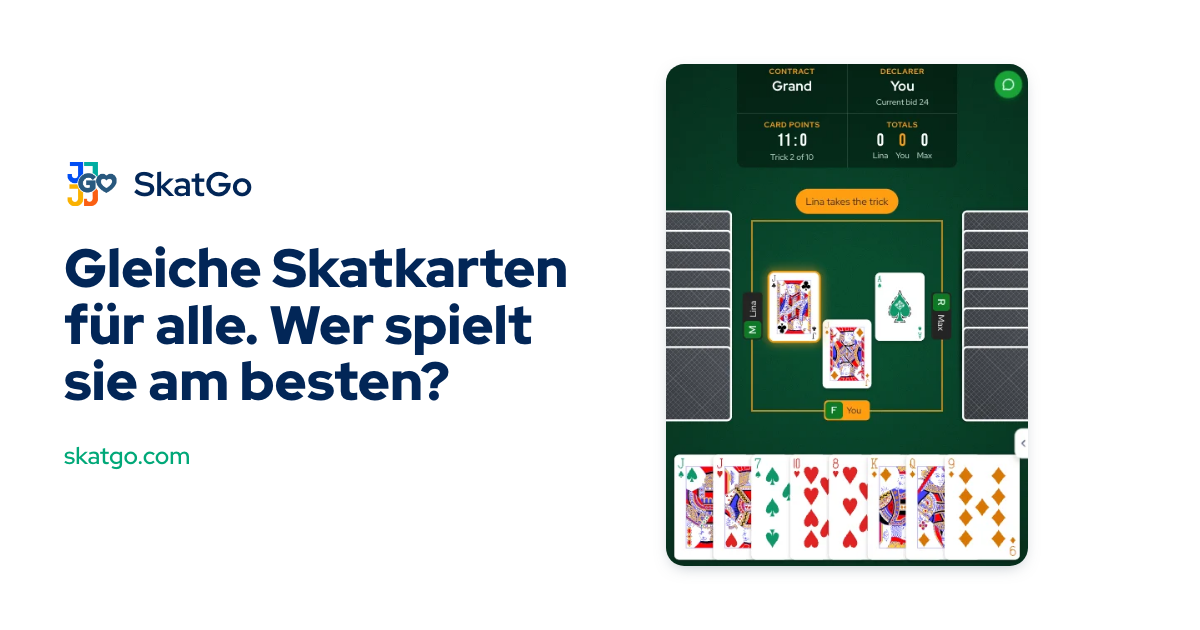
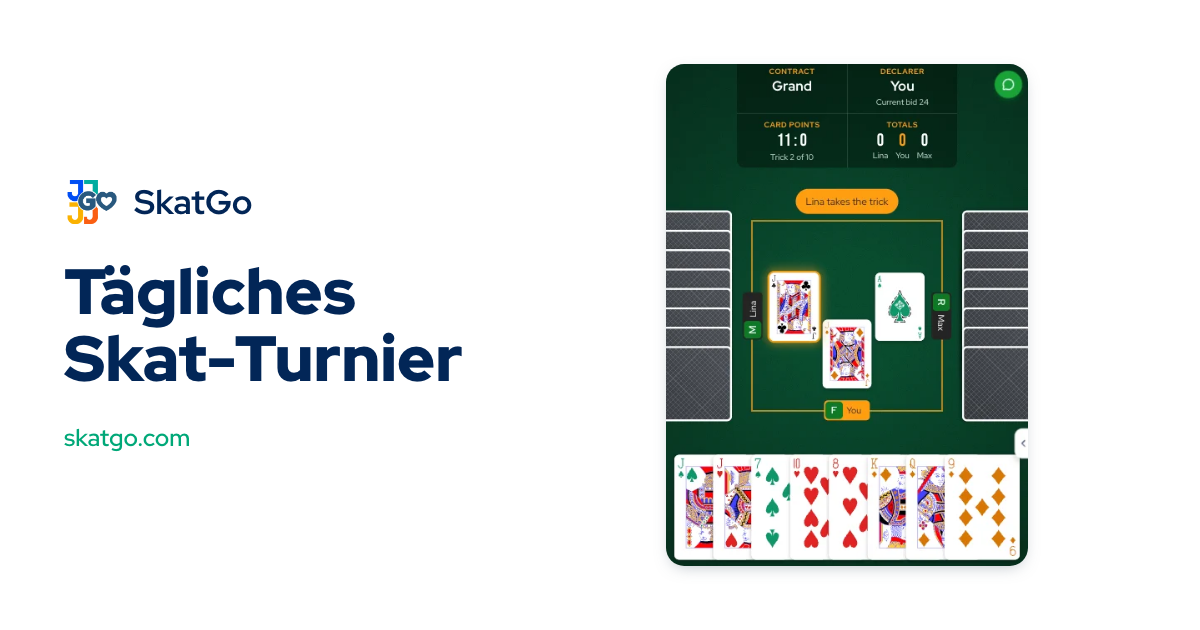
Slogan 改为这个，上面是slogan，下面是说明文字：Daily Skat tournament / Same deals for everyone. Highest score takes the board.
德文：Tägliches Skat-Turnier / Dieselben Spiele für alle. Die höchste Punktzahl führt die Rangliste an.（agent 译，待人确认）；分享图随之重新生成

Changed region(s): [[0.0308, 0.3921, 0.4933, 0.6333], [0.0308, 0.2413, 0.2158, 0.3619], [0.0308, 0.6635, 0.1542, 0.754]]

diff --git a/app/src/components/skat/entry-page.tsx b/app/src/components/skat/entry-page.tsx
@@ -3,7 +3,7 @@ import * as stylex from '@stylexjs/stylex'
 import { type ReactNode, useEffect, useState } from 'react'
 
 import { track } from '~/lib/analytics'
-import { DAILY_DEALS, DAILY_EST_MINUTES } from '~/lib/daily'
+import { DAILY_EST_MINUTES } from '~/lib/daily'
 import { faq } from '~/lib/faq'
 import type { Card } from '~/lib/skat/cards'
 import { lessons } from '~/lib/skat/lessons/content'
@@ -43,7 +43,7 @@ export function EntryPage() {
       <section data-testid="entry-hero" {...stylex.props(styles.hero)}>
         <div {...stylex.props(styles.heroText)}>
           <h1 {...stylex.props(typography.landingHero, styles.title)}>{m.entry_title()}</h1>
-          <p {...stylex.props(typography.landingHeroLead, styles.lead)}>{m.entry_lead({ deals: DAILY_DEALS })}</p>
+          <p {...stylex.props(typography.landingHeroLead, styles.lead)}>{m.entry_lead()}</p>
           <div {...stylex.props(styles.actions)}>
             <Link to="/daily" data-testid="entry-cta" onClick={() => heroClick('primary')} {...linkLook('go', 'lg', 'landing')}>
               {m.entry_cta()}
